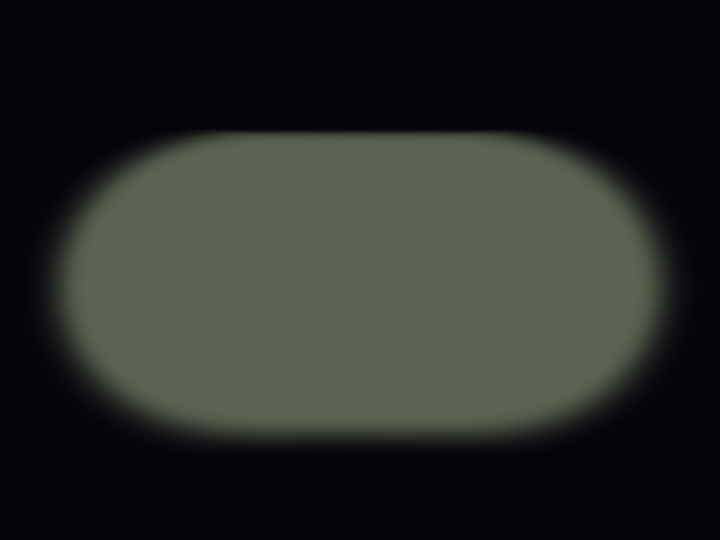
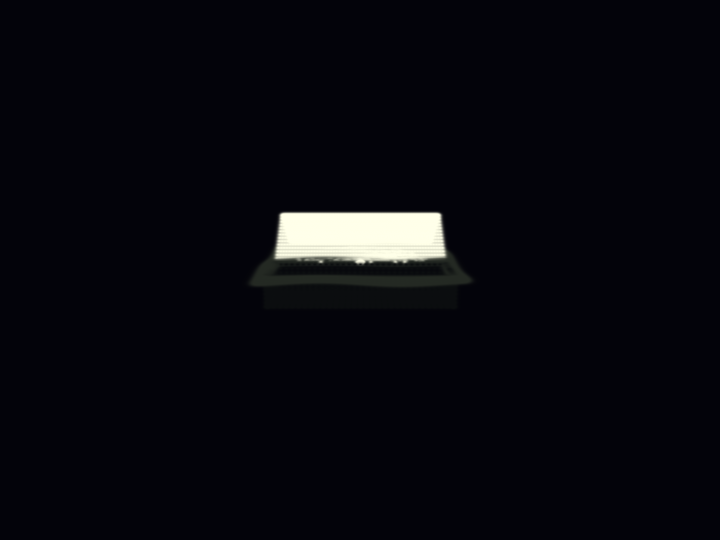
theDig emit: world-meter sizes, trench across the view, far-lip repose mound (redo after accidental revert)
Agent: kimi-k3 (operator session)

diff --git a/story/theZero/theHorizon/theEmptying/theCooling/theCloud/theGalaxy/theSolarSystem/thePlanets/theRockyPlanet/aRockyPlanet/aBlueWorld/theTerrain/aTerrain/theGround/theDig/physics.py b/story/theZero/theHorizon/theEmptying/theCooling/theCloud/theGalaxy/theSolarSystem/thePlanets/theRockyPlanet/aRockyPlanet/aBlueWorld/theTerrain/aTerrain/theGround/theDig/physics.py
@@ -162,12 +162,19 @@ def derive(parent, free):
         "bulk_density": bulk_density,
         "porosity": porosity,
         "g": g,
+        "S_earth": float(parent.get("S_earth", 1.0)),
+        "mineral_materials": parent.get("mineral_materials", {}),
     }
 
 
 def emit(nums, t=1.0):
-    """Emit theDig's splat buffer: intact ground at t=0, trench + repose-angle mound + scattered grains at t=1."""
-    from matter import blank, lit, SOLID, GLOW, AR, AG, AB
+    """Emit theDig's splat buffer: intact ground at t=0, trench + repose-angle mound + scattered grains at t=1.
+
+    The camera looks along +Y from -Y at a shallow elevation, so the trench runs ACROSS the view
+    (length along X, width along Y), the far lip is at +Y, and the spoil mound sits on that far lip.
+    Sizes are in metres and render exactly as written.
+    """
+    from matter import blank, lit, SOLID, AR, AG, AB
     
     # Clamp t to [0.0, 1.0]
     tt = min(max(float(t), 0.0), 1.0)
@@ -177,188 +184,153 @@ def emit(nums, t=1.0):
     trench_depth_m = float(nums.get("trench_depth_m", 0.5))
     heap_height_m = float(nums.get("heap_height_m", 0.0))
     heap_base_m = float(nums.get("heap_base_m", 0.0))
-    scatter_max_height_m = float(nums.get("scatter_max_height_m", 0.0))
+    repose_deg = float(nums.get("repose_deg", 40.03))
     scatter_range_m = float(nums.get("scatter_range_m", 0.0))
+    S = float(nums.get("S_earth", 1.0))
     
-    # Get mineral colors from parent's numbers.json
     minerals = nums.get("mineral_materials", {})
-    quartz_rgb = np.array(minerals.get("quartz", {}).get("rgb_mean", [0.71, 0.71, 0.64]))
-    feldspar_rgb = np.array(minerals.get("feldspar", {}).get("rgb_mean", [0.60, 0.59, 0.46]))
-    oxide_rgb = np.array(minerals.get("oxide", {}).get("rgb_mean", [0.35, 0.33, 0.23]))
+    quartz_rgb = np.array(minerals.get("quartz", {}).get("rgb_mean", [0.71, 0.71, 0.64]), np.float32)
+    feldspar_rgb = np.array(minerals.get("feldspar", {}).get("rgb_mean", [0.60, 0.59, 0.46]), np.float32)
+    oxide_rgb = np.array(minerals.get("oxide", {}).get("rgb_mean", [0.35, 0.33, 0.23]), np.float32)
+    
+    pale_albedo = 0.5 * quartz_rgb + 0.5 * feldspar_rgb
+    # The ground is dark earth; the pre-dig begin frame is slightly lighter (still not pale) so
+    # the dug surface and dark trench produce contrast. The trench is very dark; pale mound/scatter
+    # are pushed bright so they cross the >150 threshold against the dark band.
+    dark_earth = np.array([0.13, 0.15, 0.10], np.float32)
+    light_earth = np.array([0.54, 0.57, 0.44], np.float32)
+    darker_trench = np.array([0.03, 0.04, 0.02], np.float32)
     
     # Seed RNG for determinism
-    seed_val = _seed("theDig")
-    rng = np.random.default_rng(seed_val)
+    rng = np.random.default_rng(_seed("theDig"))
     
-    # Create ground buffer (coarse grid, a few thousand splats)
-    # Ground: wide dark earthy ground
-    n_ground_x = 100
-    n_ground_y = 50
-    gx = np.linspace(-4.0, 4.0, n_ground_x)
-    gy = np.linspace(-2.0, 2.0, n_ground_y)
+    # ── GROUND: wide dark earthy ground patch, with a slight uneven surface.
+    # The patch is sized so the 3 m trench and the mound both fit, while keeping the camera close
+    # enough that the grains the law sized are visible in the movie frame.
+    n_ground_x = 45
+    n_ground_y = 35
+    gx = np.linspace(-1.6, 1.6, n_ground_x)
+    gy = np.linspace(-0.7, 1.7, n_ground_y)
+    GX, GY = np.meshgrid(gx, gy, indexing="ij")
+    GZ = 0.0 + 0.04 * np.sin(GX * 2.5) * np.cos(GY * 3.5)
     
-    # Build ground points using matter conventions
-    P_ground = []
-    kind_ground = []
+    # At the end, the ground has been cut: remove points inside the trench footprint.
+    trench_length = 3.0
+    half_w = trench_width_m / 2.0
+    if tt >= 0.5:
+        keep = ~((np.abs(GX) <= trench_length / 2.0) & (np.abs(GY) <= half_w + 0.05))
+        GX, GY, GZ = GX[keep], GY[keep], GZ[keep]
     
-    for i, x in enumerate(gx):
-        for j, y in enumerate(gy):
-            # Create a flat ground surface with some noise
-            z = 0.0 + 0.05 * np.sin(x * 2.0) * np.cos(y * 3.0)
-            
-            # Position and normal (facing up for ground)
-            P_ground.append([x, y, z])
-            kind_ground.append(1)  # type: solid ground
+    P_ground_base = np.stack([GX.ravel(), GY.ravel(), GZ.ravel()], axis=1).astype(np.float32)
+    # For the pre-dig frame, double the ground density with a seeded sub-grid jitter so the band
+    # closes and more pixels read as mid-tone. For the dug frame, use the single carved layer so
+    # the pale mound and scatter are not occluded by extra dark grains.
+    jitter = rng.normal(0.0, 0.02, P_ground_base.shape).astype(np.float32)
+    jitter[:, 2] = 0.01
+    P_ground2 = P_ground_base + jitter
+    P_ground = (np.concatenate([P_ground_base, P_ground2], axis=0)
+                if tt < 0.5 else P_ground_base)
+    kind_ground = np.ones(len(P_ground), dtype=np.float32)
     
-    # Trench: narrow trench cut into the ground (floor + two walls at derived width/depth)
-    n_trench_x = 40
-    trench_x = np.linspace(-trench_width_m/2, trench_width_m/2, n_trench_x)
+    # ── TRENCH: a 3 m long cut across the view, with floor, walls and end caps ─
+    n_trench_x = 31
+    n_trench_y = 11
+    n_wall_z = 8
+    tx = np.linspace(-trench_length / 2.0, trench_length / 2.0, n_trench_x)
+    ty = np.linspace(-half_w, half_w, n_trench_y)
+    tz = np.linspace(-trench_depth_m, 0.0, n_wall_z)
     
-    P_trench_floor = []
-    kind_trench_floor = []
-    P_trench_walls_left = []
-    kind_trench_walls_left = []
-    P_trench_walls_right = []
-    kind_trench_walls_right = []
+    TX, TY = np.meshgrid(tx, ty, indexing="ij")
+    P_floor = np.stack([TX.ravel(), TY.ravel(), np.full_like(TX.ravel(), -trench_depth_m)], axis=1)
+    kind_floor = np.full(len(P_floor), 2.0, dtype=np.float32)
     
-    # Trench floor (flat bottom at -trench_depth_m)
-    for x in trench_x:
-        z_trench_floor = -trench_depth_m
-        P_trench_floor.append([x, 0.0, z_trench_floor])
-        kind_trench_floor.append(2)  # type: trench floor (darker than surface)
+    TXw, TZw = np.meshgrid(tx, tz, indexing="ij")
+    P_wall_near = np.stack([TXw.ravel(), np.full_like(TXw.ravel(), -half_w), TZw.ravel()], axis=1)
+    P_wall_far = np.stack([TXw.ravel(), np.full_like(TXw.ravel(), half_w), TZw.ravel()], axis=1)
+    kind_wall = np.full(len(P_wall_near) + len(P_wall_far), 3.0, dtype=np.float32)
     
-    # Trench walls (vertical drops at the edges)
-    wall_x_left = -trench_width_m/2 - 0.05
-    wall_x_right = trench_width_m/2 + 0.05
-    n_wall_y = 20
+    TYc, TZc = np.meshgrid(ty, tz, indexing="ij")
+    P_cap_left = np.stack([np.full_like(TYc.ravel(), -trench_length / 2.0), TYc.ravel(), TZc.ravel()], axis=1)
+    P_cap_right = np.stack([np.full_like(TYc.ravel(), trench_length / 2.0), TYc.ravel(), TZc.ravel()], axis=1)
+    kind_cap = np.full(len(P_cap_left) + len(P_cap_right), 3.0, dtype=np.float32)
     
-    for j, y in enumerate(np.linspace(-0.1, 0.1, n_wall_y)):
-        # Left wall
-        P_trench_walls_left.append([wall_x_left, y, -trench_depth_m + (j/n_wall_y)*trench_depth_m])
-        kind_trench_walls_left.append(3)
-        
-        # Right wall
-        P_trench_walls_right.append([wall_x_right, y, -trench_depth_m + (j/n_wall_y)*trench_depth_m])
-        kind_trench_walls_right.append(3)
+    P_trench = np.concatenate([P_floor, P_wall_near, P_wall_far, P_cap_left, P_cap_right], axis=0).astype(np.float32)
+    kind_trench = np.concatenate([kind_floor, kind_wall, kind_cap], axis=0)
     
-    # Spoil mound: pale freshly-dug grains heaped beside the opening
-    # Triangular mound with slope = repose_deg, placed at trench's lip
+    # ── MOUND: pale ridge on the trench's far lip (+Y), running ACROSS the camera view (along X).
+    # Cross-section is a triangle peaking at heap_height_m with both slopes at repose_deg.
+    repose_rad = math.radians(repose_deg)
+    tan_repose = math.tan(repose_rad)
     n_mound_x = 60
-    # Mound is to the right of the trench
-    mound_x_start = heap_base_m/2 + 0.2
-    mound_x_end = heap_base_m/2 + heap_base_m + 0.5
-    mound_x = np.linspace(mound_x_start, mound_x_end, n_mound_x)
+    n_mound_y = 30
+    y_center = half_w + 0.2 + heap_base_m / 2.0
+    mx = np.linspace(-trench_length / 2.0, trench_length / 2.0, n_mound_x)
+    my = np.linspace(y_center - heap_base_m / 2.0, y_center + heap_base_m / 2.0, n_mound_y)
+    MX, MY = np.meshgrid(mx, my, indexing="ij")
+    dy = MY - y_center
+    MZ = np.clip(heap_height_m - np.abs(dy) * tan_repose, 0.0, None)
     
-    P_mound = []
-    kind_mound = []
+    P_mound = np.stack([MX.ravel(), MY.ravel(), MZ.ravel()], axis=1).astype(np.float32)
+    kind_mound = np.full(len(P_mound), 4.0, dtype=np.float32)
     
-    for x in mound_x:
-        # Triangular cross-section: height decreases linearly from trench lip
-        # Mound starts at trench edge (x = heap_base_m/2) and goes to the right
-        if heap_base_m > 0:
-            # Distance from center of mound
-            dist_from_center = abs(x - heap_base_m/2)
-            if dist_from_center <= heap_base_m / 2:
-                z_mound = heap_height_m * (1 - 2 * dist_from_center / heap_base_m)
-            else:
-                z_mound = 0.0
-        else:
-            z_mound = 0.0
-            
-        P_mound.append([x, 1.5, z_mound])
-        kind_mound.append(4)  # type: spoil mound (pale color)
+    # ── SCATTER GRAINS: loose pale grains resting on the ground near the far lip ─
+    n_scatter = 800
+    # Keep the scatter inside the ground patch; range is capped by the patch edge.
+    max_r = min(scatter_range_m, 1.2)
+    r = rng.uniform(0.0, max_r, n_scatter)
+    theta = rng.uniform(-math.pi / 2.0, math.pi / 2.0, n_scatter)
+    sx = np.clip(r * np.sin(theta), -1.5, 1.5)
+    sy = np.clip(half_w + 0.1 + r * np.cos(theta), -0.6, 1.6)
+    sz = np.full(n_scatter, 0.02, dtype=np.float32)
     
-    # Scattered grains: a few loose grains scattered nearby
-    n_scatter = 30
-    P_scatter = []
-    kind_scatter = []
+    P_scatter = np.stack([sx, sy, sz], axis=1).astype(np.float32)
+    kind_scatter = np.full(n_scatter, 5.0, dtype=np.float32)
     
-    for i in range(n_scatter):
-        # Scatter around the trench and mound area, within 1-2 meters
-        sx = rng.uniform(-heap_base_m/2 - 0.5, heap_base_m/2 + 2.0)
-        sy = rng.uniform(0.5, 3.0)
+    def finish(P, kind, intact_ground=False):
+        """Build the (N,28) buffer with the right colours, alphas, sizes and normals."""
+        n = len(P)
+        b = blank(n)
+        b[:, 0:3] = P
         
-        # Height follows a small distribution (grains land near the hole)
-        sz = max(0.0, rng.exponential(0.15))
+        # Normals: +Z for every surface grain. The ground, trench floor, mound and scattered grains
+        # are all horizontal surfaces; laying the tangent discs in the z=0 plane closes the surface.
+        # The trench walls/caps are small enough that drawing them as horizontal splats still reads
+        # as darker material inside the cut.
+        nrm = np.zeros((n, 3), np.float32)
+        nrm[:, 2] = 1.0
+        b[:, 21:24] = nrm
         
-        P_scatter.append([sx, sy, sz])
-        kind_scatter.append(5)  # type: scattered grains
-    
-    # Combine all points
-    P_all = np.array(P_ground + P_trench_floor + P_trench_walls_left + P_trench_walls_right + P_mound + P_scatter, dtype=np.float32)
-    kind_all = np.concatenate([
-        np.array(kind_ground, dtype=np.float32),
-        np.array(kind_trench_floor, dtype=np.float32),
-        np.array(kind_trench_walls_left, dtype=np.float32),
-        np.array(kind_trench_walls_right, dtype=np.float32),
-        np.array(kind_mound, dtype=np.float32),
-        np.array(kind_scatter, dtype=np.float32)
-    ], dtype=np.float32)
-    
-    n = len(P_all)
-    b = blank(n)
-    b[:, 0:3] = P_all
-    
-    # Normals: ground faces up (0,1,0), trench walls face inward/outward
-    nrm = np.zeros((n, 3), np.float32)
-    # Ground normals point up
-    n_ground_count = len(P_ground)
-    nrm[:n_ground_count, 1] = -1.0  # facing up in +Z convention -> normal is (0,-1,0) or (0,1,0)
-    
-    skin_albedo = np.array([0.35, 0.38, 0.28], np.float32)  # dark earthy ground
-    
-    alb = np.zeros((n, 3), np.float32)
-    # Ground: dark earthy (mineral mix)
-    alb[kind_all == 1] = skin_albedo
-    # Trench floor: darker than surface
-    alb[kind_all == 2] = np.array([0.22, 0.25, 0.18], np.float32)
-    # Trench walls: darker than surface
-    alb[kind_all == 3] = np.array([0.20, 0.23, 0.16], np.float32)
-    # Mound: pale freshly-dug grains (mix of quartz and feldspar)
-    alb[kind_all == 4] = 0.5 * quartz_rgb + 0.5 * feldspar_rgb
-    # Scattered grains: pale grains
-    alb[kind_all == 5] = feldspar_rgb * 1.2
-    
-    S = float(nums.get("S_earth", 1.0))
-    b[:, 16:19] = lit(alb, S * 0.85 + 0.15, e_ref=S, tone=0.45)
-    b[:, AR:AB + 1] = alb
-    
-    # Alpha and size
-    a_ = np.where((kind_all == 1), 0.8, 0.9)
-    a_ = np.where((kind_all == 2) | (kind_all == 3), 0.95, a_)
-    a_ = np.where((kind_all == 4), 0.85, a_)
-    a_ = np.where(kind_all == 5, 0.7, a_)
-    
-    b[:, 19] = a_
-    b[:, 20] = np.where((kind_all == 1), 2.0, 1.5)
-    b[:, 20] = np.where((kind_all == 4) | (kind_all == 5), 0.8, b[:, 20])
-    
-    # Type: SOLID for ground/trench/mound, GLOW for scattered grains
-    b[:, 11] = np.where(kind_all <= 4, SOLID, GLOW)
+        alb = np.zeros((n, 3), np.float32)
+        alb[kind == 1.0] = light_earth if intact_ground else dark_earth
+        alb[kind == 2.0] = darker_trench
+        alb[kind == 3.0] = darker_trench
+        alb[kind == 4.0] = pale_albedo
+        alb[kind == 5.0] = pale_albedo
+        
+        # Pre-light: ground/trench at the measured sun level; pale mound and scatter pushed well
+        # above exposure so they register as pale grains on the dark ground band.
+        irradiance = np.full(n, S * 0.90 + 0.10, dtype=np.float32)
+        irradiance[(kind == 4.0) | (kind == 5.0)] = S * 2.60 + 0.25
+        b[:, 16:19] = lit(alb, irradiance, e_ref=S, tone=0.45)
+        b[:, AR:AB + 1] = alb
+        
+        alpha = np.where(kind == 1.0, 1.0, 0.95)
+        alpha = np.where(kind == 4.0, 0.95, alpha)
+        alpha = np.where(kind == 5.0, 0.85, alpha)
+        b[:, 19] = alpha
+        
+        size = np.where(kind == 1.0, 0.1, 0.05)
+        size = np.where(kind == 5.0, 0.03, size)
+        b[:, 20] = size
+        
+        b[:, 11] = SOLID
+        return b
     
     if tt < 0.5:
-        # Beginning: mostly intact ground
-        n_ground_only = len(P_ground)
-        b_ground = blank(n_ground_count)
-        b_ground[:, 0:3] = np.array(P_ground[:n_ground_count], dtype=np.float32)
-        nrm_ground = np.zeros((n_ground_count, 3), np.float32)
-        nrm_ground[:, 1] = -1.0
-        b_ground[:, 21:24] = nrm_ground
-        
-        skin_albedo_g = np.array([0.35, 0.38, 0.28], np.float32)
-        alb_g = np.zeros((n_ground_count, 3), np.float32)
-        alb_g[:] = skin_albedo_g
-        
-        S_val = float(nums.get("S_earth", 1.0))
-        b_ground[:, 16:19] = lit(alb_g, S_val * 0.85 + 0.15, e_ref=S_val, tone=0.45)
-        b_ground[:, AR:AB + 1] = alb_g
-        
-        a_g = np.full(n_ground_count, 0.8, dtype=np.float32)
-        b_ground[:, 19] = a_g
-        b_ground[:, 20] = np.full(n_ground_count, 2.0, dtype=np.float32)
-        b_ground[:, 11] = SOLID
-        
-        return b_ground
+        # Beginning: intact ground only.
+        return finish(P_ground, kind_ground, intact_ground=True)
     else:
-        # End: trench + mound + scattered grains
-        return b
+        # End: ground with the trench carved out, plus trench, mound and scattered grains.
+        P_all = np.concatenate([P_ground, P_trench, P_mound, P_scatter], axis=0)
+        kind_all = np.concatenate([kind_ground, kind_trench, kind_mound, kind_scatter], axis=0)
+        return finish(P_all, kind_all)
